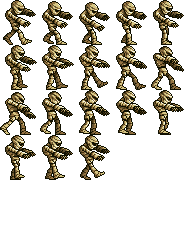
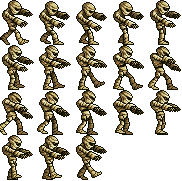
States!

diff --git a/js/main.js b/js/main.js
@@ -14,156 +14,225 @@ window.onload = function() {
     "use strict";
     
 	
-    var game = new Phaser.Game( 800, 600, Phaser.AUTO, 'game', { preload: preload, create: create, update: update } );
-    
-    function preload() {
-        //pre-loading the zombies
-		game.load.spritesheet('bob', 'assets/phaser-dude.png', 37, 45, 18);
-		game.load.spritesheet('mummy', 'assets/metalslug_mummy37x45.png', 37, 45, 18);
+	var P2Game = {};
+	
+	P2Game.StateA = function (game) {
+
+		this.message;
+		this.cursors;
+		this.logo;
+
+	};
+	
+	P2Game.StateA.prototype = 
+	{
 		
+		
+		 gotoStateB: function () 
+		{
+
+			this.state.start('StateB');
+
+		},
+		
+		update: function()
+		{
+			this.game.stage.backgroundColor = '#806000';
+			this.cursors = this.input.keyboard.createCursorKeys();
+			if (this.cursors.left.isDown)
+			{
+				this.gotoStateB();
+			}
+		}
+	
+	}
+	
+	
+	P2Game.StateC = function (game) {
+
+		this.message;
+		this.cursors;
+		this.logo;
+		this.text;
+		this.style;
+
+	};
+	
+	P2Game.StateC.prototype = 
+	{
+		
+		
+		 gotoStateA: function () 
+		{
+
+			this.state.start('StateA');
+
+		},
+		
+		update: function()
+		{
+			this.game.stage.backgroundColor = '#806000';
+			this.cursors = this.input.keyboard.createCursorKeys();
+			
+			this.style = { font: "25px Verdana", fill: "#9999ff", align: "center" };
+			this.text = this.add.text( this.world.centerX, 15, "You Lose! Want to Play Again? Press The Left Arrow!", this.style );
+			this.text.anchor.setTo( 0.5, 0.0 );
+			
+			if (this.cursors.left.isDown)
+			{
+				this.gotoStateA();
+			}
+		}
+	
 	}
     
-
-	var mummies;
-	var bob;
-	var keys;
-	var text;
-	var style;
+	
+	P2Game.StateB = function(game)
+		{
+			this.mummies;
+			this.bob;
+			this.keys;
+			this.text;
+			this.style;
+		}
+	
+	P2Game.StateB.prototype=
+	{
+		preload: function() 
+		{
+        //pre-loading the zombies
+			this.load.spritesheet('bob', 'assets/phaser-dude.png', 28, 28, 18);
+			this.load.spritesheet('mummy', 'assets/metalslug_mummy37x45.png', 37, 45, 15);
+			this.game.stage.backgroundColor = '#000000';
+		},
+    
 
 	
-    function create() {
-        
-		
-		
+		create: function() 
+		{
+			
+			
 		//starting physics:
-		game.physics.startSystem(Phaser.Physics.ARCADE);
+			this.game.physics.startSystem(Phaser.Physics.ARCADE);
 		
 		//creating mummies
-		mummies = game.add.group();
+			this.mummies = this.add.group();
 		//and bob
-		bob = game.add.sprite(300,100,'bob');
+			this.bob = this.add.sprite(300,100,'bob');
 		
 		
 		
 		//Creating 10 mummies, each initially dead
-		mummies.createMultiple(20,"mummy",0,false);
+			this.mummies.createMultiple(20,"mummy",0,false);
 		
 		
+			this.game.physics.enable(this.mummies,Phaser.Physics.ARCADE);
+			this.game.physics.enable(this.bob,Phaser.Physics.ARCADE);
 		
 		//bringing mummies to life!
-		game.time.events.repeat(Phaser.Timer.SECOND, 20, resurrect, this);
+			
+			this.game.time.events.repeat(Phaser.Timer.SECOND, 20, this.resurrect,this );
  
         
       
-		game.physics.enable(mummies,Phaser.Physics.ARCADE);
-		game.physics.enable(bob,Phaser.Physics.ARCADE);
+			
+	
 		
-       
-    
-		
-        
-		
-        
-		
-		
-    }
+		},
 	
 	
 	
-	function resurrect() {
-
-		//  Get a dead item
-		var item = mummies.getFirstDead();
-
-		if (item)
+		resurrect: function()
 		{
-			//  And bring it back to life
-			item.reset(game.world.randomX, game.world.randomY);
+			
+		 //Get a dead item
+			var item = this.mummies.getFirstDead();
 
-			//  This just changes its frame
-			item.frame = game.rnd.integerInRange(0, 36);
+			if (item)
+			{
+			 //And bring it back to life
+				item.reset((this.world.randomX + (this.bob.x)), (this.world.randomY+(this.bob.y)));
+
+			 //This just changes its frame
+				item.frame = this.rnd.integerInRange(0, 36);
 			
 			//getting the mummies to run
-			item.animations.add('walk');
+				item.animations.add('walk');
 
-			item.animations.play('walk', 30, true);
+				item.animations.play('walk', 30, true);
 			
 			//and move towards cursor
-			item.rotation = game.physics.arcade.moveToObject( item,bob, 100 );
-		}
+				item.rotation = this.physics.arcade.moveToObject( item,this.bob, 100 );
+			}
 
-	}
+		},
 	
-	function update(){
-	
-		//adding some text with instructions:
+		update: function()
+		{
+			//window.alert("here?");
+		
 		// Add some text using a CSS style.
         // Center it in X, and position its top 15 pixels from the top of the world.
-        style = { font: "25px Verdana", fill: "#9999ff", align: "center" };
-        text = game.add.text( game.world.centerX, 15, "Don't Let the Zombies Get You!.", style );
-        text.anchor.setTo( 0.5, 0.0 );
+			this.style = { font: "25px Verdana", fill: "#9999ff", align: "center" };
+			this.text = this.add.text( this.world.centerX, 15, "Don't Let the Mummies Get You!.", this.style );
+			this.text.anchor.setTo( 0.5, 0.0 );
 		
-		keys = game.input.keyboard.createCursorKeys();
 		
-		if(bob.exists)
+			this.keys = this.input.keyboard.createCursorKeys();
+		
+			if(this.bob.exists)
+			{
+				
+				this.bob.body.velocity.x=0;
+				this.bob.body.velocity.y=0;
+				
+				if (this.keys.left.isDown)
+				{
+					this.bob.body.velocity.x=-200;	
+				}
+			
+				if (this.keys.right.isDown)
+				{
+					this.bob.body.velocity.x=200;	
+				}
+			
+				if (this.keys.up.isDown)
+				{	
+					this.bob.body.velocity.y=-200;	
+				}
+			
+				if (this.keys.down.isDown)
+				{	
+					this.bob.body.velocity.y=200;
+				}
+		
+				if(this.physics.arcade.collide(this.mummies,this.bob))
+				{
+					this.bob.kill();
+					this.bob.exists=false;	
+					this.goToStateC();
+				}
+			
+			}
+				
+			
+		
+		},
+		
+		goToStateC: function () 
 		{
-			bob.body.velocity.x=0;
-			bob.body.velocity.y=0;
-			
-			if (keys.left.isDown)
-			{
-				
-				
-				bob.body.velocity.x=-200;
-				
-			}
-			
-			if (keys.right.isDown)
-			{
-				
-				bob.body.velocity.x=200;
-				
-			}
-			
-			if (keys.up.isDown)
-			{
-				
-				bob.body.velocity.y=-200;
-				
-			}
-			
-			if (keys.down.isDown)
-			{
-				
-				bob.body.velocity.y=200;
-				
-			}
-		
-			if(game.physics.arcade.overlap(mummies,bob,null,null,this))
-			{
-				
-				bob.kill();
-				bob.exists=false;
-				
-				endGame();
-				
-			}
-		
+
+			this.state.start('StateC');
+
 		}
-				
-			
-		
 	}
-	
-	function endGame()
-	{
-		
-		
-		
-		style = { font: "25px Verdana", fill: "#9999ff", align: "center" };
-		text=game.add.text( game.world.centerX, 15, "Game Over.", style );
-		text.anchor.setTo( 0.5, 0.0 );
-	}
+	var game = new Phaser.Game( 800, 600, Phaser.AUTO, 'game' );
+    
+	game.state.add('StateA', P2Game.StateA);
+	game.state.add('StateB', P2Game.StateB);
+	game.state.add('StateC', P2Game.StateC);
+
+	game.state.start('StateA');
     
     
-};
+ };
